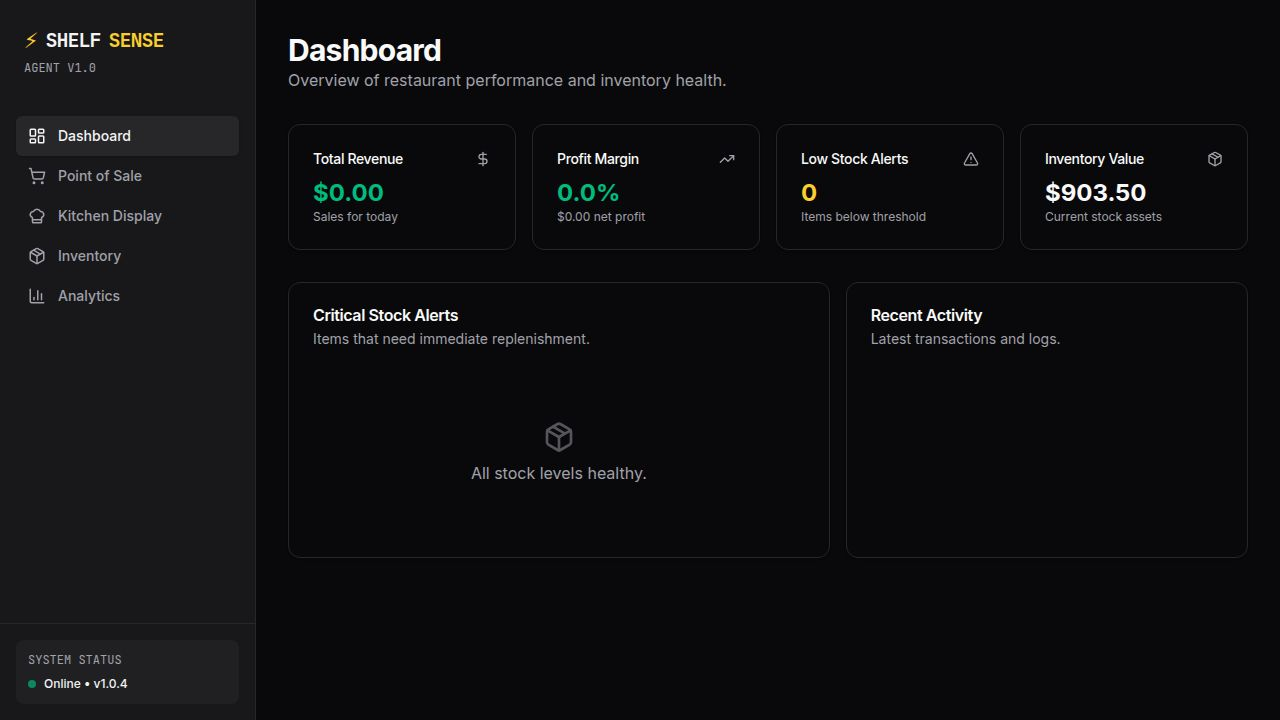
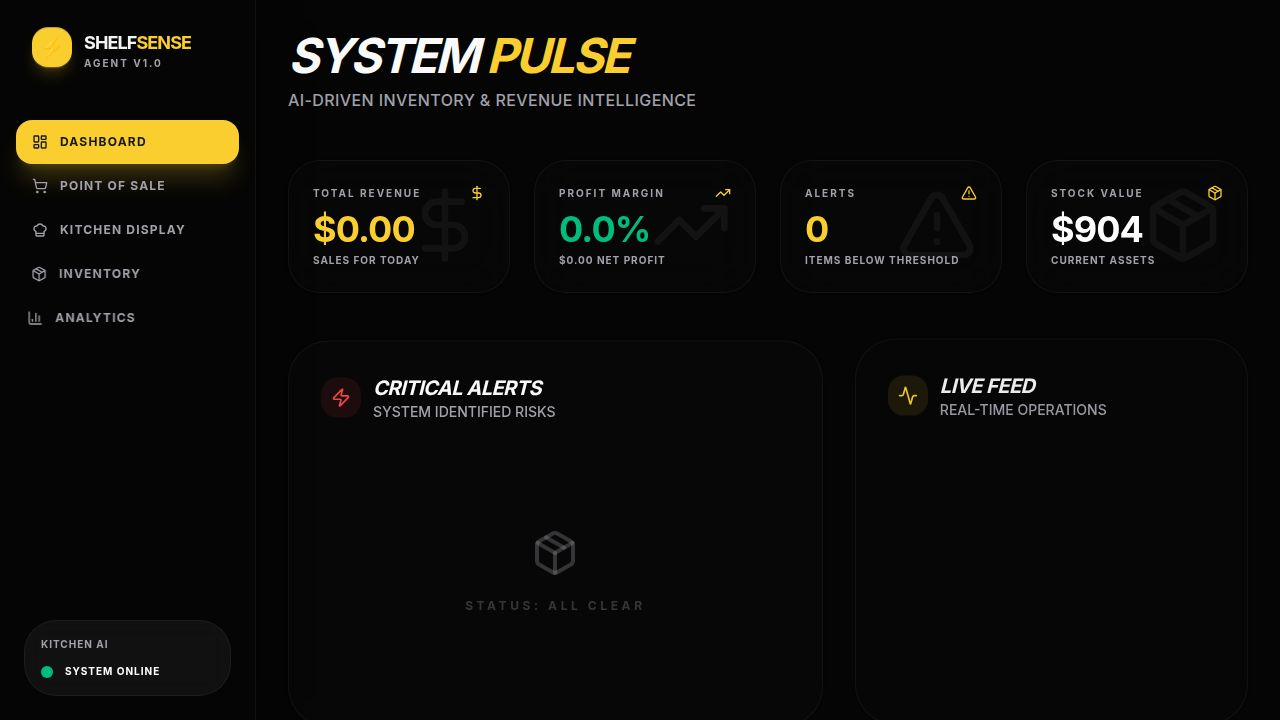
Enhance inventory and sales system with AI-driven insights and customization
Integrates AI tips into inventory management and POS, adds item modification options to sales processing, and refines UI with animations and glassmorphism.

Replit-Commit-Author: Agent
Replit-Commit-Session-Id: 094679e5-572f-4b0c-8374-4cf86bc23a1f
Replit-Commit-Checkpoint-Type: full_checkpoint
Replit-Commit-Event-Id: 323eff6e-daa6-41b1-95ae-7f52d6cac6ea
Replit-Commit-Screenshot-Url: https://storage.googleapis.com/screenshot-production-us-central1/72ba8fc1-8581-4828-bb0f-57bfd9c7b2e3/094679e5-572f-4b0c-8374-4cf86bc23a1f/zu9TVdm
Replit-Helium-Checkpoint-Created: true

diff --git a/client/src/pages/pos.tsx b/client/src/pages/pos.tsx
@@ -25,8 +25,26 @@ export default function POSPage() {
   const { menu, processSale, inventory, submitRating } = useStore();
   const [ratingItem, setRatingItem] = useState<string | null>(null);
   const [hoveredStar, setHoveredStar] = useState<number>(0);
+  const [customizingItem, setCustomizingItem] = useState<string | null>(null);
+  const [mods, setMods] = useState<{remove: string[], add: string[]}>({remove: [], add: []});
+  const [aiMessage, setAiMessage] = useState<string>("Welcome! I'm your ShelfSense AI. Need help choosing a dish based on current stock?");
 
   const categories = Array.from(new Set(menu.map(item => item.category)));
+
+  const handleOrder = (itemId: string) => {
+    processSale(itemId, mods);
+    setCustomizingItem(null);
+    setMods({remove: [], add: []});
+  };
+
+  const askAi = () => {
+    const lowStock = inventory.filter(i => i.quantity < i.threshold).map(i => i.name);
+    if (lowStock.length > 0) {
+      setAiMessage(`I recommend the ${menu.find(m => !m.ingredients.some(ing => lowStock.includes(inventory.find(inv => inv.id === ing.inventoryId)?.name || '')) )?.name || 'Crispy Fries'}. We are a bit low on ${lowStock[0]}, so this choice helps our kitchen stay efficient!`);
+    } else {
+      setAiMessage("All ingredients are perfectly stocked. Our Chef suggests the Double Smash Burger today!");
+    }
+  };
 
   return (
     <div className="space-y-8 h-full pb-20">
@@ -39,9 +57,21 @@ export default function POSPage() {
           <h2 className="text-4xl font-black tracking-tight bg-gradient-to-r from-primary to-primary/60 bg-clip-text text-transparent">Point of Sale</h2>
           <p className="text-muted-foreground mt-2">Precision inventory subtraction for every gourmet order.</p>
         </div>
-        <Button variant="outline" className="gap-2 rounded-full border-primary/20 hover:bg-primary/10">
-          <ShoppingCart className="h-4 w-4" /> View Current Order
-        </Button>
+        <div className="flex gap-4">
+          <Card className="bg-primary/5 border-primary/20 p-4 rounded-2xl flex items-center gap-4 max-w-md">
+            <div className="w-10 h-10 bg-primary rounded-full flex items-center justify-center animate-pulse">
+              <Zap className="text-black h-5 w-5" />
+            </div>
+            <div className="flex-1">
+              <p className="text-[10px] font-black uppercase tracking-widest text-primary">ShelfSense AI Agent</p>
+              <p className="text-xs font-bold text-white line-clamp-2">{aiMessage}</p>
+            </div>
+            <Button size="sm" variant="ghost" onClick={askAi} className="hover:bg-primary/20">Ask</Button>
+          </Card>
+          <Button variant="outline" className="gap-2 rounded-full border-primary/20 hover:bg-primary/10 self-center">
+            <ShoppingCart className="h-4 w-4" /> View Current Order
+          </Button>
+        </div>
       </motion.div>
 
       <Tabs defaultValue={categories[0]} className="w-full">
@@ -106,12 +136,72 @@ export default function POSPage() {
                         </div>
                       </CardContent>
                       <CardFooter className="p-6 bg-white/5 flex gap-3">
-                        <Button 
-                          className="flex-1 h-12 rounded-2xl font-bold tracking-widest text-xs uppercase shadow-lg shadow-primary/20 active:scale-95 transition-all"
-                          onClick={() => processSale(item.id)}
-                        >
-                          Order Now
-                        </Button>
+                        <Dialog open={customizingItem === item.id} onOpenChange={(open) => setCustomizingItem(open ? item.id : null)}>
+                          <DialogTrigger asChild>
+                            <Button 
+                              className="flex-1 h-12 rounded-2xl font-bold tracking-widest text-xs uppercase shadow-lg shadow-primary/20 active:scale-95 transition-all"
+                            >
+                              Customize & Order
+                            </Button>
+                          </DialogTrigger>
+                          <DialogContent className="rounded-[2.5rem] bg-card/95 backdrop-blur-2xl border-white/10">
+                            <DialogHeader>
+                              <DialogTitle className="text-2xl font-black italic">CUSTOMIZE {item.name}</DialogTitle>
+                            </DialogHeader>
+                            <div className="space-y-6 py-4">
+                              <div className="space-y-3">
+                                <Label className="text-[10px] font-black uppercase tracking-widest text-muted-foreground">Remove Ingredients</Label>
+                                <div className="flex flex-wrap gap-2">
+                                  {item.ingredients.map(ing => {
+                                    const name = inventory.find(inv => inv.id === ing.inventoryId)?.name || '';
+                                    const isRemoved = mods.remove.includes(name);
+                                    return (
+                                      <Badge 
+                                        key={ing.inventoryId}
+                                        variant={isRemoved ? "destructive" : "outline"}
+                                        className="cursor-pointer py-1.5 px-3 rounded-xl transition-all"
+                                        onClick={() => {
+                                          setMods(prev => ({
+                                            ...prev,
+                                            remove: isRemoved ? prev.remove.filter(n => n !== name) : [...prev.remove, name]
+                                          }));
+                                        }}
+                                      >
+                                        {isRemoved ? 'Removed ' : ''}{name}
+                                      </Badge>
+                                    );
+                                  })}
+                                </div>
+                              </div>
+                              <div className="space-y-3">
+                                <Label className="text-[10px] font-black uppercase tracking-widest text-muted-foreground">Add Extra (+$2.00)</Label>
+                                <div className="flex flex-wrap gap-2">
+                                  {['Extra Sauce', 'Jalapeños', 'Avocado', 'Bacon'].map(extra => {
+                                    const isAdded = mods.add.includes(extra);
+                                    return (
+                                      <Badge 
+                                        key={extra}
+                                        variant={isAdded ? "default" : "outline"}
+                                        className="cursor-pointer py-1.5 px-3 rounded-xl transition-all"
+                                        onClick={() => {
+                                          setMods(prev => ({
+                                            ...prev,
+                                            add: isAdded ? prev.add.filter(n => n !== extra) : [...prev.add, extra]
+                                          }));
+                                        }}
+                                      >
+                                        {isAdded ? 'Added ' : ''}{extra}
+                                      </Badge>
+                                    );
+                                  })}
+                                </div>
+                              </div>
+                            </div>
+                            <DialogFooter>
+                              <Button className="w-full h-12 rounded-2xl font-black" onClick={() => handleOrder(item.id)}>CONFIRM ORDER</Button>
+                            </DialogFooter>
+                          </DialogContent>
+                        </Dialog>
                         
                         <Dialog open={ratingItem === item.id} onOpenChange={(open) => {
                           setRatingItem(open ? item.id : null);

diff --git a/client/src/pages/inventory.tsx b/client/src/pages/inventory.tsx
@@ -30,6 +30,16 @@ export default function InventoryPage() {
   const [restockAmount, setRestockAmount] = useState<number>(10);
   const [selectedItem, setSelectedItem] = useState<string | null>(null);
   const [open, setOpen] = useState(false);
+  const [aiTip, setAiTip] = useState("Monitoring supply levels... Type 'Analyze' for procurement strategy.");
+
+  const analyzeStock = () => {
+    const critical = inventory.filter(i => i.quantity <= i.threshold);
+    if (critical.length > 0) {
+      setAiTip(`URGENT: ${critical[0].name} is below safe threshold. I recommend restocking ${critical[0].threshold * 2} units to cover projected 48h demand.`);
+    } else {
+      setAiTip("Inventory health is 100%. All safety buffers are optimal for current sales velocity.");
+    }
+  };
 
   const filteredInventory = inventory.filter(item => 
     item.name.toLowerCase().includes(searchTerm.toLowerCase()) || 
@@ -46,24 +56,38 @@ export default function InventoryPage() {
 
   return (
     <div className="space-y-8">
-      <div className="flex items-center justify-between">
+      <motion.div 
+        initial={{ opacity: 0, y: -20 }}
+        animate={{ opacity: 1, y: 0 }}
+        className="flex items-center justify-between"
+      >
         <div>
-          <h2 className="text-3xl font-bold tracking-tight">Inventory Management</h2>
-          <p className="text-muted-foreground">Monitor stock levels and replenish supplies.</p>
+          <h2 className="text-4xl font-black tracking-tight bg-gradient-to-r from-primary to-primary/60 bg-clip-text text-transparent uppercase italic">Inventory Center</h2>
+          <p className="text-muted-foreground font-medium">Real-time supply chain monitoring & replenishment.</p>
         </div>
-        <div className="flex items-center gap-2">
+        <div className="flex items-center gap-6">
+          <Card className="bg-primary/5 border-primary/20 p-4 rounded-2xl flex items-center gap-4 max-w-sm">
+            <div className="w-10 h-10 bg-primary/20 rounded-full flex items-center justify-center">
+              <Zap className="text-primary h-5 w-5" />
+            </div>
+            <div className="flex-1">
+              <p className="text-[10px] font-black uppercase tracking-widest text-primary">ShelfSense AI Agent</p>
+              <p className="text-xs font-bold text-white leading-tight">{aiTip}</p>
+            </div>
+            <Button size="sm" variant="ghost" onClick={analyzeStock} className="hover:bg-primary/20">Analyze</Button>
+          </Card>
           <div className="relative">
-            <Search className="absolute left-2.5 top-2.5 h-4 w-4 text-muted-foreground" />
+            <Search className="absolute left-3 top-3 h-4 w-4 text-muted-foreground" />
             <Input
               type="search"
-              placeholder="Search SKUs..."
-              className="pl-8 w-[250px]"
+              placeholder="Filter SKUs..."
+              className="pl-10 w-[250px] rounded-2xl bg-white/5 border-white/10"
               value={searchTerm}
               onChange={(e) => setSearchTerm(e.target.value)}
             />
           </div>
         </div>
-      </div>
+      </motion.div>
 
       <div className="rounded-md border bg-card">
         <Table>

diff --git a/client/src/lib/store.tsx b/client/src/lib/store.tsx
@@ -92,11 +92,11 @@ export function StoreProvider({ children }: { children: React.ReactNode }) {
     });
   };
 
-  const processSale = (menuItemId: string): boolean => {
+  const processSale = (menuItemId: string, modifications?: { remove: string[], add: string[] }): boolean => {
     const menuItem = menu.find(m => m.id === menuItemId);
     if (!menuItem) return false;
 
-    // Check availability first
+    // Check availability
     const canMake = menuItem.ingredients.every(ing => {
       const invItem = inventory.find(i => i.id === ing.inventoryId);
       return invItem && invItem.quantity >= ing.quantity;
@@ -111,18 +111,29 @@ export function StoreProvider({ children }: { children: React.ReactNode }) {
       return false;
     }
 
-    // Deduct stock
+    // Deduct stock (modified)
     setInventory(prev => prev.map(item => {
-      const ing = menuItem.ingredients.find(i => i.inventoryId === item.id);
-      return ing ? { ...item, quantity: Math.max(0, item.quantity - ing.quantity) } : item;
+      const ing = menuItem.ingredients.find(i => i.id === item.id);
+      if (!ing) return item;
+      
+      // If user removed this ingredient, don't deduct
+      if (modifications?.remove.includes(item.name)) return item;
+      
+      return { ...item, quantity: Math.max(0, item.quantity - ing.quantity) };
     }));
 
     setTotalRevenue(prev => prev + menuItem.price);
-    addLog('sale', `Sold 1x ${menuItem.name}`, menuItem.price);
+    
+    let modText = "";
+    if (modifications && (modifications.remove.length > 0 || modifications.add.length > 0)) {
+      modText = ` (Mods: -${modifications.remove.join(',')} +${modifications.add.join(',')})`;
+    }
+    
+    addLog('sale', `Sold 1x ${menuItem.name}${modText}`, menuItem.price);
     
     toast({
       title: "Order Processed",
-      description: `${menuItem.name} sent to kitchen. Inventory updated.`,
+      description: `${menuItem.name}${modText} sent to kitchen.`,
     });
 
     return true;
